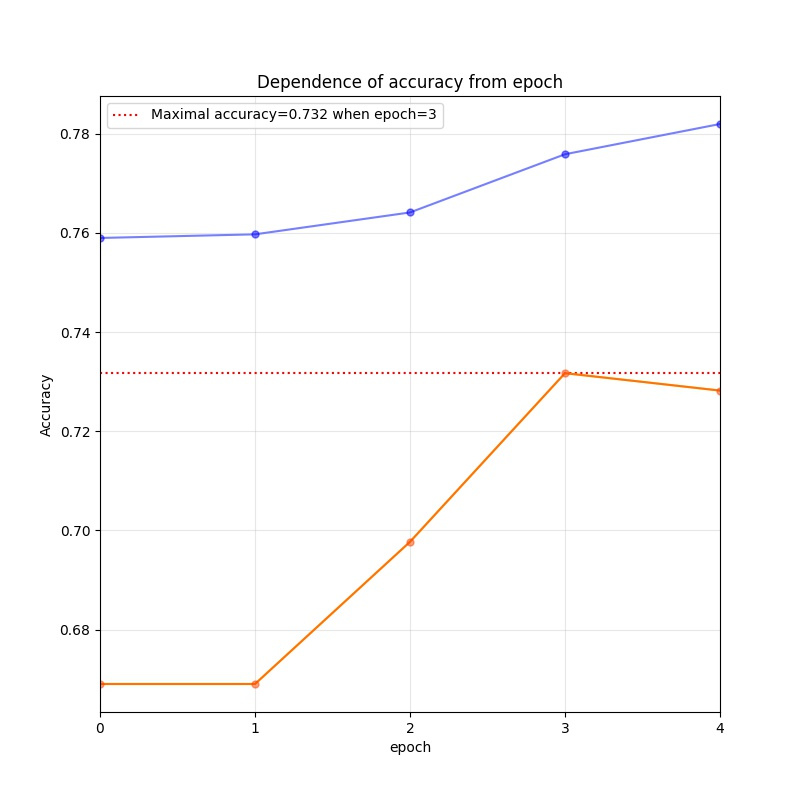
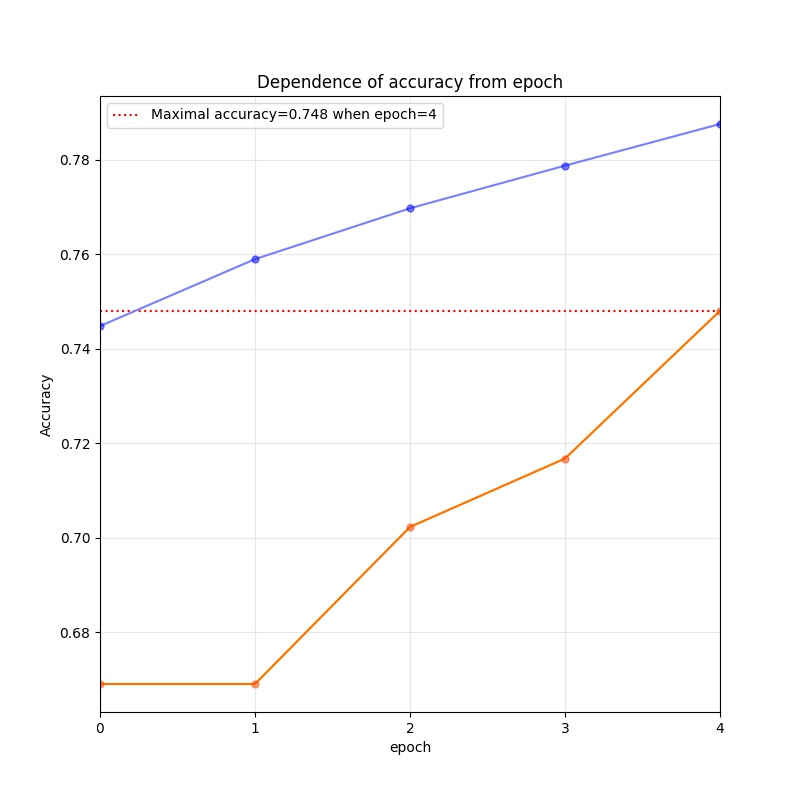
chaneg polarity classifier input
get word2vec or
vocabulary and embedding matrix

diff --git a/src/polarity/classifier.py b/src/polarity/classifier.py
@@ -1,4 +1,4 @@
-from typing import List, Union, Dict
+from typing import List, Dict
 import logging
 import time
 import copy
@@ -9,13 +9,12 @@ import numpy as np
 from sklearn import metrics
 from gensim.models import KeyedVectors
 
-from .loader import DataLoader
+from src import SCORE_DECIMAL_LEN, polarity_classifier_dump_path
+from src.review.parsed_sentence import ParsedSentence
+from src.review.target import Polarity
+from .loader import DataLoader, Batch
 from .gcn import GCNClassifier
 from .utils import torch_utils
-from .loader import Batch
-from src import SCORE_DECIMAL_LEN
-from src.review.parsed_sentence import ParsedSentence
-from src import polarity_classifier_dump_path
 from .score.display import display_score
 
 
@@ -24,31 +23,33 @@ class PolarityClassifier:
 
     Attributes
     ----------
-    word2vec : Union[KeyedVectors, Dict]
-        KeyedVectors to set pretrained embeddings.
-        Otherwise dict - to set vocabulary and shape of embeddings.
+    word2vec : KeyedVectors
+        Vocabulary and embed_matrix are extracting from word2vec.
+        Otherwise you can pass vocabulary and emb_matrix.
+    vocabulary : dict
+        dictionary where key is wordlemma_POS value - index in embedding matrix
+    emb_matrix : th.Tensor
+        matrix of pretrained embeddings
     """
     def __init__(self,
-                 word2vec: Union[KeyedVectors, Dict],
-                 batch_size=32,
-                 emb_matrix_shape=None):
+                 word2vec: KeyedVectors = ...,
+                 vocabulary: Dict[str, int] = ...,
+                 emb_matrix: th.Tensor = ...,
+                 batch_size=32):
         self.device = th.device('cuda' if th.cuda.is_available() else 'cpu')
         self.batch_size = batch_size
 
         if isinstance(word2vec, KeyedVectors):
             self.vocabulary = {w: i for i, w in enumerate(word2vec.index2word)}
             emb_matrix = th.FloatTensor(word2vec.vectors)
-        elif isinstance(word2vec, dict):
-            self.vocabulary = word2vec
-            emb_matrix = None
         else:
-            raise ValueError
+            self.vocabulary = vocabulary
 
         while True:
             try:
                 self.model = GCNClassifier(emb_matrix=emb_matrix,
                                            device=self.device,
-                                           emb_matrix_shape=emb_matrix_shape)
+                                           num_class=len(Polarity))
             except RuntimeError:
                 time.sleep(1)
             else:
@@ -86,10 +87,9 @@ class PolarityClassifier:
                                  device=self.device)
 
         train_acc_history, train_loss_history = [], []
-        val_acc_history, val_loss_history, f1_score_history = [], [], []
+        val_acc_history, val_loss_history, f1_history = [], [], []
 
-        for epoch in range(1, num_epoch + 1):
-
+        for epoch in range(num_epoch):
             # Train
             train_len = len(train_batches)
             self.model.train()
@@ -131,13 +131,13 @@ class PolarityClassifier:
             train_loss_history.append(train_loss)
             val_loss_history.append(val_loss)
             val_acc_history.append(val_acc)
-            f1_score_history.append(f1_score)
+            f1_history.append(f1_score)
         display_score(parameter_values=[x for x in range(num_epoch)],
                       train_values=train_acc_history,
                       val_values=val_acc_history)
         self.save_model()
 
-    def predict(self, sentences: List[ParsedSentence]):
+    def predict(self, sentences: List[ParsedSentence]) -> List[ParsedSentence]:
         self.model.eval()
         sentences = copy.deepcopy(sentences)
         batches = DataLoader(sentences=sentences,
@@ -163,11 +163,10 @@ class PolarityClassifier:
         }, polarity_classifier_dump_path)
 
     @staticmethod
-    def load_model():
+    def load_model() -> 'PolarityClassifier':
         checkpoint = th.load(polarity_classifier_dump_path)
         model = checkpoint['model']
-        classifier = PolarityClassifier(
-            word2vec=checkpoint['vocabulary'],
-            emb_matrix_shape=[x for x in model['gcn.embed.weight'].shape])
+        classifier = PolarityClassifier(vocabulary=checkpoint['vocabulary'],
+                                        emb_matrix=model['gcn.embed.weight'])
         classifier.model.load_state_dict(model)
         return classifier

diff --git a/src/polarity/loader.py b/src/polarity/loader.py
@@ -18,11 +18,18 @@ Batch = namedtuple(
 
 
 class DataLoader:
-    def __init__(self, vocabulary: Dict, sentences: List[ParsedSentence], batch_size: int,
-                 device: th.device):
+    def __init__(self,
+                 vocabulary: Dict[str, int],
+                 sentences: List[ParsedSentence],
+                 batch_size: int,
+                 device: th.device,
+                 unknown_word=UNKNOWN_WORD,
+                 pad_word=PAD_WORD):
         self.vocabulary = vocabulary
         self.batch_size = batch_size
         self.device = device
+        self.unknown_word = unknown_word
+        self.pad_word = pad_word
 
         data = self.process(sentences)
         self.num_examples = len(data)
@@ -49,7 +56,7 @@ class DataLoader:
                 if sentence.id2lemma[word] in self.vocabulary:
                     embed_ids.append(self.vocabulary[sentence.id2lemma[word]])
                 else:
-                    embed_ids.append(self.vocabulary[UNKNOWN_WORD])
+                    embed_ids.append(self.vocabulary[self.unknown_word])
 
         sentence_len = len(sentence.graph.nodes)
 
@@ -98,7 +105,7 @@ class DataLoader:
         sentence_lens = th.LongTensor([x.sentence_len for x in batch])
         polarity = th.LongTensor([x.polarity for x in batch])
 
-        embed_ids = th.LongTensor(batch_size, max_len).fill_(self.vocabulary[PAD_WORD])
+        embed_ids = th.LongTensor(batch_size, max_len).fill_(self.vocabulary[self.pad_word])
         mask = th.FloatTensor(batch_size, max_len).fill_(0)
         adj = []
         for i, b in enumerate(batch):

diff --git a/src/polarity/gcn.py b/src/polarity/gcn.py
@@ -7,17 +7,10 @@ from src.review.target import Polarity
 
 
 class GCNClassifier(nn.Module):
-    def __init__(self,
-                 emb_matrix: th.Tensor,
-                 device: th.device,
-                 emb_matrix_shape,
-                 num_class=len(Polarity),
-                 mem_dim=50):
+    def __init__(self, emb_matrix: th.Tensor, device: th.device, num_class, mem_dim=50):
         super().__init__()
         self.device = device
-        self.gcn = GCN(emb_matrix=emb_matrix,
-                       device=self.device,
-                       emb_matrix_shape=emb_matrix_shape)
+        self.gcn = GCN(emb_matrix=emb_matrix, device=self.device)
         self.classifier = nn.Linear(mem_dim, num_class)
 
     def forward(self, embed_ids: th.Tensor, adj: th.Tensor, mask: th.Tensor,
@@ -38,7 +31,6 @@ class GCN(nn.Module):
     def __init__(
         self,
         emb_matrix: th.Tensor,
-        emb_matrix_shape,
         device: th.device,
         rnn_hidden=50,
         rnn_layers=1,
@@ -51,11 +43,8 @@ class GCN(nn.Module):
         super(GCN, self).__init__()
         self.device = device
 
-        if emb_matrix is not None:
-            self.embed = nn.Embedding(*emb_matrix.shape)
-            self.embed.weight = nn.Parameter(emb_matrix.cuda(), requires_grad=False)
-        else:
-            self.embed = nn.Embedding(*emb_matrix_shape)
+        self.embed = nn.Embedding(*emb_matrix.shape)
+        self.embed.weight = nn.Parameter(emb_matrix.cuda(), requires_grad=False)
 
         self.rnn_layers = rnn_layers
         self.rnn_hidden = rnn_hidden
